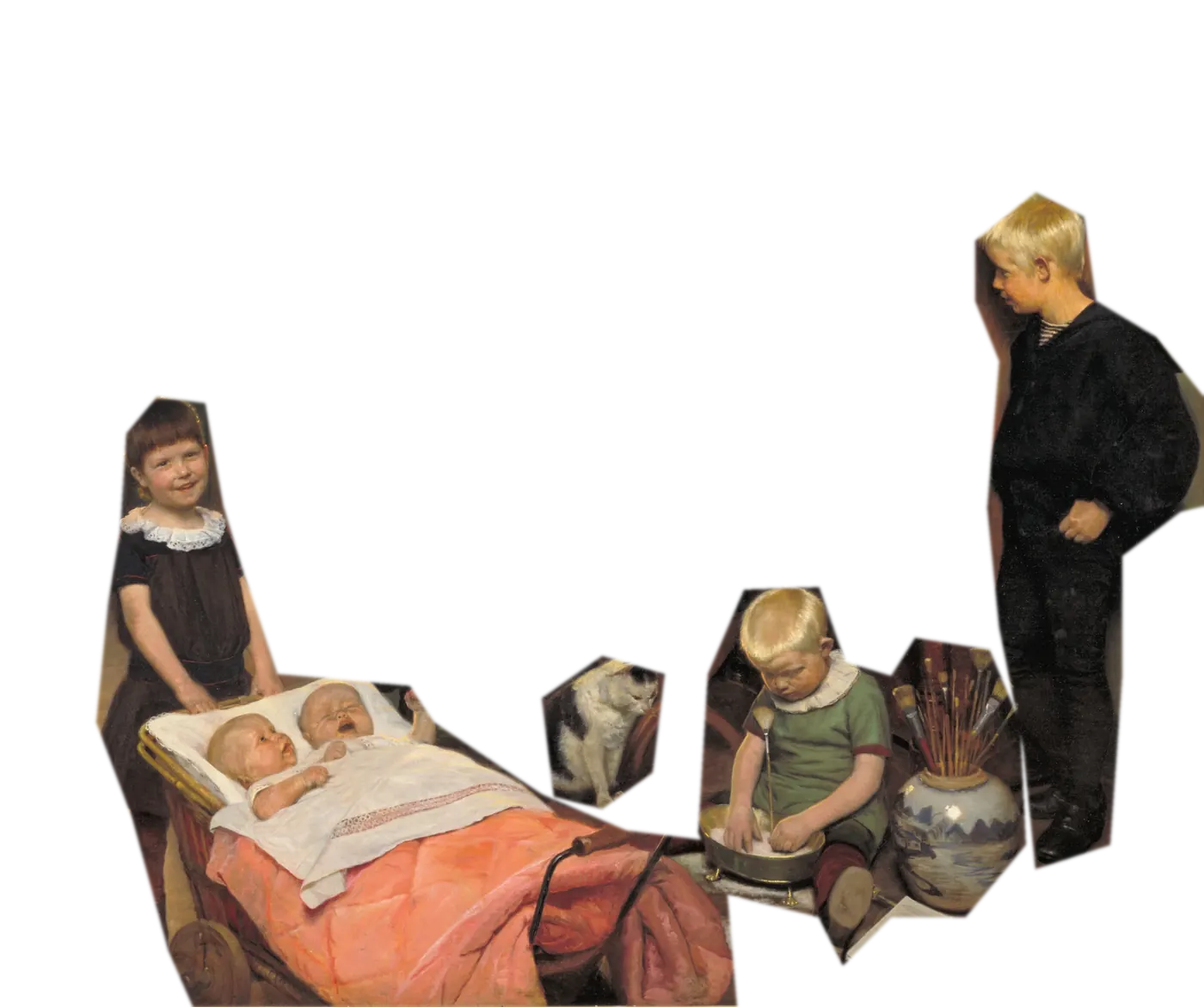
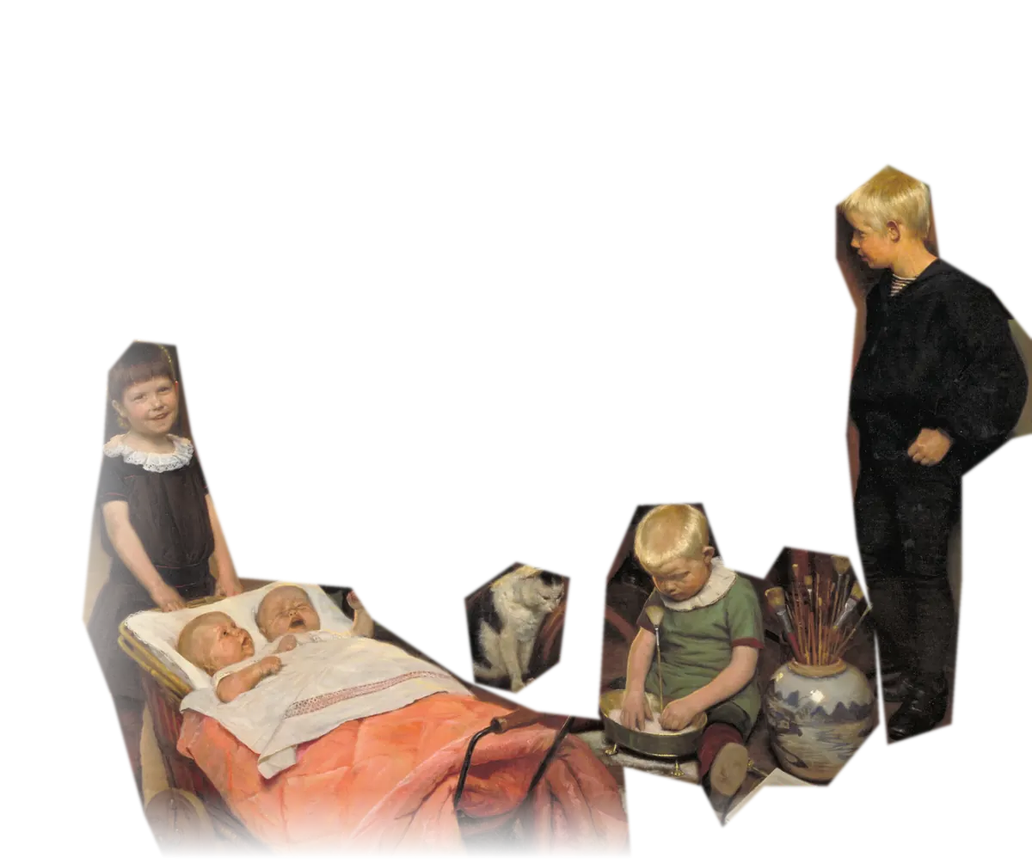
Home performance: tilt moves only on-screen layers with direct transforms and a sensor deadzone, edge fades baked into layer alpha (no CSS masks), layer images loaded up front at 1200 px
Claude-Session: https://claude.ai/code/session_016DXmRVDzV1tugYS6YgVYK3

Changed region(s): [[0.0617, 0.3705, 0.6167, 1.0], [0.6783, 0.9263, 0.74, 0.9572]]

diff --git a/src/features/home/HomePage.tsx b/src/features/home/HomePage.tsx
@@ -126,19 +126,39 @@ const DUST = Array.from({ length: 18 }, (_, i) => ({
 function useStageTilt(root: React.RefObject<HTMLDivElement | null>) {
   useEffect(() => {
     const scroller = root.current
-    const pin = scroller?.querySelector<HTMLElement>('.hm-stage-pin')
-    if (!scroller || !pin || matchMedia('(prefers-reduced-motion: reduce)').matches) return
+    if (!scroller || matchMedia('(prefers-reduced-motion: reduce)').matches) return
+    // Only the tilt boxes of panels on screen are moved, each by its own transform: no custom property on the page
+    // root (that restyled every node of the page on every frame and made the iPad drop frames).
+    const panels = [...scroller.querySelectorAll<HTMLElement>('.hm-stage-pin, .hm-chapter')]
+    const boxes = new Map<HTMLElement, { el: HTMLElement; depth: number }[]>()
+    for (const p of panels)
+      boxes.set(p, [...p.querySelectorAll<HTMLElement>('.hm-tilt')].map((el) => ({ el, depth: parseFloat(getComputedStyle(el).getPropertyValue('--depth')) || 0 })))
+    const live = new Set<HTMLElement>()
+    const io = new IntersectionObserver((es) => es.forEach((e) => (e.isIntersecting ? live.add(e.target as HTMLElement) : live.delete(e.target as HTMLElement))), { root: scroller })
+    panels.forEach((p) => io.observe(p))
     let tx = 0, ty = 0, cx = 0, cy = 0, raf = 0
+    const paint = () => {
+      for (const p of live)
+        for (const b of boxes.get(p) ?? []) b.el.style.transform = `translate3d(${(-cx * b.depth).toFixed(2)}px, ${(-cy * b.depth * 0.6).toFixed(2)}px, 0)`
+    }
     const loop = () => {
-      cx += (tx - cx) * 0.07
-      cy += (ty - cy) * 0.07
-      scroller.style.setProperty('--tx', cx.toFixed(4))
-      scroller.style.setProperty('--ty', cy.toFixed(4))
-      raf = Math.abs(tx - cx) + Math.abs(ty - cy) > 0.002 ? requestAnimationFrame(loop) : 0
+      cx += (tx - cx) * 0.08
+      cy += (ty - cy) * 0.08
+      const moving = Math.abs(tx - cx) + Math.abs(ty - cy) > 0.004
+      if (!moving) {
+        cx = tx
+        cy = ty
+      }
+      paint()
+      raf = moving ? requestAnimationFrame(loop) : 0
     }
     const aim = (x: number, y: number) => {
-      tx = Math.max(-1, Math.min(1, x))
-      ty = Math.max(-1, Math.min(1, y))
+      x = Math.max(-1, Math.min(1, x))
+      y = Math.max(-1, Math.min(1, y))
+      // ignore sensor noise: a device resting on a table still reports tiny changes many times a second
+      if (Math.abs(x - tx) + Math.abs(y - ty) < 0.03) return
+      tx = x
+      ty = y
       if (!raf) raf = requestAnimationFrame(loop)
     }
     const fine = matchMedia('(hover: hover) and (pointer: fine)').matches
@@ -151,7 +171,7 @@ function useStageTilt(root: React.RefObject<HTMLDivElement | null>) {
     const onTilt = (e: DeviceOrientationEvent) => {
       if (e.gamma == null || e.beta == null) return
       if (base == null) base = e.beta
-      aim(e.gamma / 22, (e.beta - base) / 22)
+      aim(Math.round(e.gamma) / 22, Math.round(e.beta - base) / 22)
     }
     type Perm = { requestPermission?: () => Promise<'granted' | 'denied'> }
     const DOE = (window as unknown as { DeviceOrientationEvent?: Perm }).DeviceOrientationEvent
@@ -166,6 +186,7 @@ function useStageTilt(root: React.RefObject<HTMLDivElement | null>) {
     } else if (DOE?.requestPermission) scroller.addEventListener('touchend', askOnce, { once: true })
     else startTilt()
     return () => {
+      io.disconnect()
       cancelAnimationFrame(raf)
       scroller.removeEventListener('pointermove', onPointer)
       scroller.removeEventListener('pointerleave', onLeave)
@@ -190,7 +211,7 @@ function Layer({ name, src }: { name: 'bg' | 'mid' | 'fg'; src?: string }) {
         <div className="hm-tilt">
           <picture>
             <source media="(max-width: 760px)" srcSet={url('-sm')} />
-            <img src={url('')} alt="" decoding="async" loading={src ? 'lazy' : 'eager'} />
+            <img src={url('')} alt="" decoding="async" />
           </picture>
         </div>
       </div>

diff --git a/src/features/home/home.css b/src/features/home/home.css
@@ -34,14 +34,14 @@
 .hm-stage-pin .hm-layer-fg { z-index: 4; transform-origin: 62% 100%; }
 .hm-layer .hm-push, .hm-layer .hm-tilt, .hm-layer picture { position: absolute; inset: 0; }
 .hm-layer img { width: 100%; height: 100%; object-fit: cover; object-position: 60% 40%; }
-.hm-tilt { --depth: 0px; transform: translate3d(calc(var(--tx) * var(--depth) * -1), calc(var(--ty) * var(--depth) * -0.6), 0); }
-.hm-layer-bg .hm-tilt { --depth: 7px; }
-.hm-layer-mid .hm-tilt { --depth: 16px; }
-.hm-layer-fg .hm-tilt { --depth: 30px; }
-.hm-chapter-media .hm-layer-bg .hm-tilt { --depth: 5px; }
-.hm-chapter-media .hm-layer-mid .hm-tilt { --depth: 12px; }
-.hm-chapter-media .hm-layer-fg .hm-tilt { --depth: 22px; }
-.hm-title-block .hm-tilt { --depth: 22px; }
+.hm-tilt { --depth: 0; }
+.hm-layer-bg .hm-tilt { --depth: 7; }
+.hm-layer-mid .hm-tilt { --depth: 16; }
+.hm-layer-fg .hm-tilt { --depth: 30; }
+.hm-chapter-media .hm-layer-bg .hm-tilt { --depth: 5; }
+.hm-chapter-media .hm-layer-mid .hm-tilt { --depth: 12; }
+.hm-chapter-media .hm-layer-fg .hm-tilt { --depth: 22; }
+.hm-title-block .hm-tilt { --depth: 22; }
 /* entrance: the room rises out of black, the listeners in front settle last */
 .hm-stage-pin .hm-layer-bg img { animation: hm-layer-in 2400ms cubic-bezier(0.16, 1, 0.3, 1) both; }
 .hm-stage-pin .hm-layer-mid img { animation: hm-layer-in 2400ms 150ms cubic-bezier(0.16, 1, 0.3, 1) both; }
@@ -138,14 +138,14 @@
 .hm-chapter.is-flip { grid-template-columns: 1fr 1.08fr; }
 .hm-chapter.is-flip .hm-chapter-media { order: 2; }
 .hm-chapter-media { position: relative; height: 100%; overflow: hidden; }
-.hm-chapter-media .hm-layer { transform: scale(1.08); }
+.hm-chapter-media .hm-layer { transform: scale(1.08); will-change: transform; }
+.hm-tilt { will-change: transform; }
 .hm-chapter-media .hm-layer-bg { z-index: 1; } .hm-chapter-media .hm-layer-mid { z-index: 4; } .hm-chapter-media .hm-layer-fg { z-index: 5; }
 /* stacking inside a panel (the media box has no stacking context of its own, so its layers interleave with the text):
    bg 1 · edge fade 2 · heading 3 · figures 4 · foreground 5 · body text 6 */
 .hm-chapter-media::after { z-index: 2; }
 .hm-chapter-media .hm-layer-mid, .hm-chapter-media .hm-layer-fg {
-  -webkit-mask-image: linear-gradient(var(--fade-dir, 90deg), #000 var(--fade-from, 72%), transparent 98%);
-  mask-image: linear-gradient(var(--fade-dir, 90deg), #000 var(--fade-from, 72%), transparent 98%);
+  /* edge fades are baked into the images' alpha (split2.py): a CSS mask on moving layers stalls Safari */
 }
 .hm-chapter.is-flip { --fade-dir: 270deg; }
 .hm-chapter-mark {
@@ -157,8 +157,8 @@
 .hm-chapter:nth-child(2) { --mark-top: 30%; }
 .hm-chapter:nth-child(3) { --mark-top: 20%; --mark-left: 41%; }
 .hm-chapter:nth-child(4) { --mark-top: 24%; }
-.hm-chapter-mark .hm-tilt { --depth: 8px; }
-.hm-chapter-mark .hm-chapter-title { font-size: clamp(44px, 6.6vw, 108px); line-height: 1.04; text-shadow: 0 1px 2px rgb(0 0 0 / 0.55), 0 4px 22px rgb(0 0 0 / 0.65), 0 10px 60px rgb(0 0 0 / 0.5); }
+.hm-chapter-mark .hm-tilt { --depth: 8; }
+.hm-chapter-mark .hm-chapter-title { font-size: clamp(44px, 6.6vw, 108px); line-height: 1.04; text-shadow: 0 1px 2px rgb(0 0 0 / 0.6), 0 4px 24px rgb(0 0 0 / 0.6); }
 .hm-chapter-text { position: relative; z-index: 6; align-self: end; padding-bottom: clamp(48px, 11vh, 120px) !important; }
 .hm-chapter-media .hm-layer img { object-position: 50% 42%; }
 .hm-chapter-media::after {

diff --git a/CLAUDE.md b/CLAUDE.md
@@ -40,7 +40,7 @@ npx tsc -b && npm run lint && npm run check:links && npm run build
   - `quotes/index.ts`: mảng `ROWS` `[tiếng Việt, nguyên văn, tác giả, vai trò, nguồn]` (347 câu). Ảnh chân dung tự lấy từ Wikipedia theo tên tác giả; tên viết kiểu Việt cần thêm vào `WIKI_TITLE` trong `QuoteBanner.tsx`.
 - **App chỉ có giao diện tối** (11/2026): `applyDarkTheme()` (`settingsService.ts`, gọi ở `main.tsx`) luôn đặt `data-theme="dark"` + `color-scheme: dark`, bỏ qua trường `theme` cũ trong cài đặt; đã bỏ nút đổi sáng/tối ở ngăn kéo, mục Giao diện trong Cài đặt, lệnh trong ⌘K và lệnh "giao diện" của trợ lý; `theme-color`/manifest `#0b0a08`. Token giao diện sáng trong `index.css` còn nhưng không dùng tới — **đừng thêm lại công tắc theme**. Nền Giấy/Sepia/Đêm của trình đọc sách vẫn giữ (màu trang đọc, không phải theme app).
 - **Nhận diện thương hiệu đen – vàng** (11/2026): vàng là màu nhấn **duy nhất** — `--color-accent` = vàng ở cả hai giao diện (đêm: nền mun ấm `#0b0a08`, vàng champagne; ngày: giấy ngà, vàng đồng), trạng thái "đã xác nhận" cũng vàng; không thêm màu xanh/tím cho nút, link, trạng thái. Màu riêng của mục/sách/nhánh đi qua `src/lib/tint.ts` (`hueTint`, `tintColor`, `brandHue` kéo mọi hue về quanh vàng ±45°, độ bão hoà thấp) — đừng viết lại `oklch(… 0.13 hue)` ở component. Lớp dùng chung ở `src/brand.css` (import trong `index.css`): `.btn-gold` (nút chính duy nhất trên màn, ánh lướt khi rê chuột), `.btn-line` (viền vàng mảnh, nút phụ), `.gold-rule`, `.side-rail` (thanh bên cùng nền trang + đường viền vàng mờ), `.hero-stats`, `.hero-search` (ô tìm kính tối viền vàng ở hero Lý thuyết), `.brand-eyebrow`, focus ring vàng **chỉ khi dùng bàn phím** (`html[data-kbd]` bật khi nhấn Tab, tắt ở mọi cú chạm/chuột — đặt trong `spotlight.ts`; luật nằm trong `@layer base` để `outline-none` của Tailwind vẫn thắng; ô nhập chữ không có viền riêng — lỗi cũ: chạm vào ô tìm trên iPad hiện khung chữ nhật vàng), **không có thanh cuộn ở đâu cả** (`scrollbar-width: none` + `::-webkit-scrollbar { display: none }` cho mọi phần tử, vẫn cuộn bình thường); **ánh vàng theo con trỏ** trên mọi `.theory-card` / `.spot` (viền + quầng sáng, `src/lib/spotlight.ts` — một listener uỷ quyền đặt `--mx/--my`, chỉ máy có chuột).
-- **Trang chủ** `/home` (`src/features/home/HomePage.tsx` + `home.css`; app mới mở vào thẳng `#/home` — dòng trước `createHashRouter` trong `App.tsx`; mục "Trang chủ" đầu ngăn kéo menu, chỉ máy tính): phòng tranh tối đen – vàng giống nhau ở cả hai giao diện. 1) **sân khấu 2,5D** (`.hm-stage`, 11/2026): tranh *Song tấu* (Krøyer 1887) **tách 3 lớp** ở `public/images/home/duet3d/{bg,mid,fg}{,-sm}.webp` — `mid` = hai ca sĩ + người đàn + nến/đàn, `fg` = người nghe tiền cảnh trái (váy đỏ) và phải, `bg` = phòng với chỗ người bị che được vá bằng inpaint (OpenCV Telea, làm mờ + hạt) — sinh bằng `scratchpad/layers/split.py` (đa giác vẽ tay theo lưới 1000 px, viền mềm 3 px; sửa đường cắt thì sửa đa giác rồi chạy lại). Mỗi lớp = `.hm-layer` (chuyển động theo cuộn) > `.hm-tilt` (lệch theo con trỏ trên máy tính / con quay trên điện thoại–iPad, độ sâu bg 7 · mid 16 · title 22 · fg 30 px; `useStageTilt`: input chỉ đặt đích, một vòng rAF làm mượt rồi dừng, ghi `--tx/--ty` trên `.hm-stage-pin`; iOS xin quyền cảm biến ở cú chạm đầu). Section cao `3.4 × 100svh`, khung `.hm-stage-pin` dính; timeline `--stage` (range `contain`): 0 – 30 % tiêu đề + dòng giới thiệu bay lên mờ đi, 10 – 58 % người nghe tiền cảnh lướt qua máy quay (phóng 1.75, chìm xuống, mờ), ca sĩ tiến gần (1.22), phòng (1.16); 28 – 50 % phòng tối dần (`.hm-stage-dark`); 48 – 90 % câu "Tinh thần" hiện trên phòng tối và sáng dần từng chữ, cuối cùng chữ ký "— Lamar". Màn dọc: khối tiêu đề (`.hm-title-block`) lên vùng tường tối, nằm **giữa** lớp ca sĩ và lớp người nghe (z 3) nên người nghe lướt qua chữ khi cuộn; màn ngang: tiêu đề nổi trên cùng bên trái. Sau sân khấu là 4 con số (`.hm-manifesto` chỉ còn `.hm-figures`) trên nền đen rồi tới các chương. Không có scroll timeline: câu Tinh thần thành khối thường dưới hero. Đo Chromium: cuộn cả trang trung vị 16,7 ms/khung; 2) đoạn "Tinh thần" — câu của Lamar "Học để hiểu, hiểu để phân tích, phân tích để vận dụng, vận dụng để sáng tạo và không ngừng khám phá âm nhạc." + chữ ký "— Lamar" (`.hm-manifesto-sign`) — sáng dần từng chữ theo cuộn + 4 con số (đếm thật từ `ARTICLES`, `CATEGORIES`, `libraryStats`, `SHELF_BOOKS`); 3) bốn chương **dính chồng** (`.hm-chapters` > `.hm-chapter` sticky, chương sau trượt đè chương trước, chương dưới tối dần) — **tranh mỗi chương cũng tách lớp** (`public/images/home/layers/<file>-{bg,mid,fg}{,-sm}.webp`, 1400 / 800 px; sinh bằng `scratchpad/layers/split2.py`, bảng đa giác `P` theo lưới 1000 px: vĩ cầm = tường · vĩ cầm+vĩ+lông · giấy nhạc+sáo+dây treo; de Hooch = phòng · hai nhóm người chơi (gồm con chó) · rèm đỏ; Hansen = tường · hai chị em (không có fg, `ART.reading.fg = false`); Haslund *A Concert* (chương Luyện tai, thay tranh Ancher độ phân giải thấp) = phòng+đàn · cậu bé vĩ cầm + hai bé gái + bé đánh đàn · bé gái đẩy xe nôi, cậu bé bên phải, bé gõ trống, con mèo). `Layer` nhận `src` = `ART.*.file`, mỗi lớp 3 hộp lồng: `.hm-layer` (chương **đến**: view() entry — tường đi chậm nhất từ `translateY(-38%)`, lớp giữa `-16%`, lớp trước đi lên từ `+14%` và hiện dần, tất cả khớp lại ở `scale(1.08)`) > `.hm-push` (chương **bị phủ**: timeline `--c(i+1)` entry — máy quay đẩy vào, lớp trước phóng 1.32 trôi lên mờ còn 15 %, lớp giữa 1.12, tường 1.04) > `.hm-tilt` (nghiêng: 5 / 12 / 22 px). **Tiêu đề chương nằm trong tranh** (`.hm-chapter-mark`: số + eyebrow + tiêu đề lớn, tách khỏi `.hm-chapter-text` chỉ còn đoạn mô tả + nút + chú thích): `.hm-chapter-media` không tạo stacking context nên các lớp tranh và chữ xen nhau trong panel — màn ngang: bg 1 · vệt tối mép (`::after`) 2 · **tiêu đề 3** · nhân vật 4 · tiền cảnh 5 · mô tả 6, tiêu đề tràn từ cột chữ sang tranh nên nhân vật che một phần chữ (vị trí từng chương `--mark-top/--mark-left` theo `:nth-child`, canh để chỉ che vài nét: vĩ cầm 38 %, sách 41 %, chương lật `right: 31%`); màn dọc (≤ 860 px): tiêu đề ở vùng tường tối phía trên tranh, z 5 — **trước** nhân vật, chỉ lớp tiền cảnh (z 6: rèm đỏ, cậu bé bên phải) lướt qua, vì nhân vật chiếm giữa khung sẽ che hết chữ. Lớp giữa/trước có `mask-image` tan dần về mép (`--fade-dir`, `--fade-from` 72 % ngang / 92 % dọc — tan sớm quá thì lớp bán trong suốt làm chữ phía sau mờ đục). Tiêu đề đến chậm hơn nhân vật (`hm-mark-in`, entry 20 – 100 %, từ `translateY(28vh)`) nên nhân vật lướt ngang qua chữ, bay lên mờ đi khi chương sau phủ (`hm-mark-out`), lệch nghiêng 8 px (giữa nền và nhân vật); bóng chữ ba tầng cho dễ đọc trên tranh sáng. Chữ chương: hiện lên khi đến (`hm-text-in`) và bay lên mờ đi khi chương sau phủ (`hm-text-out`, hai timeline `view(), --c(i+1)`). `useStageTilt` nay ghi `--tx/--ty` lên cả `.hm` nên mọi tranh nhiều lớp cùng lệch. Đo Chromium headless (không GPU): điện thoại trung vị 16,7 ms, p95 16,8; màn rộng trung vị 16,7, p95 ~33 ms (nhiều lớp lớn cùng lúc): Lý thuyết, Âm nhạc học + Bản đồ (số nơi/sự kiện đếm từ `PLACES`), Tủ sách, Luyện tai; 4) **phòng tranh ngang** tủ sách (dòng chữ viền khổng lồ trôi ngang đã bỏ — Lamar thấy khó hiểu): tiêu đề hiện rõ ngay (không mờ dần) + dòng gợi ý "Cuộn xuống để lướt qua tủ sách →" (chỉ khi có scroll timeline); `.hm-hshelf` cao `100svh + n × 110px`, khung trong `.hm-hshelf-pin` dính, dải bìa (`Cover`, nghiêng 3D tĩnh, bấm mở bằng `openBook`) dịch ngang `translateX(-100% + 100cqw)` theo view-timeline `--shelf` (range `contain`), thanh tiến độ vàng; không có scroll timeline thì thành hàng cuộn ngang có snap; 5) chân trang ghi nguồn tranh. Nút logo `.rail-mark` tự ẩn khi vuốt xuống, hiện lại khi vuốt lên (`useMarkAutoHide` → `html[data-hm-down]`). Hero thêm bụi vàng (18 chấm CSS bay lên, vị trí cố định), quầng sáng vàng theo con trỏ trên máy có chuột (`useHeroLight`, dịch bằng transform), hạt phim tĩnh (SVG noise ở `.hm-hero-veil::after`). Bóng đổ mép trên các chương cắt bằng `clip-path: inset(-140px 0 0 0)` tĩnh để không lan xuống dưới. Đo trong Chromium headless: cuộn hết trang 60 fps, không khung > 50 ms. Hiệu ứng cuộn là **CSS scroll-driven animation** (`animation-timeline: view()` / view-timeline đặt tên `--hero`, `--mf`, `--c1..4` + `timeline-scope` trên `.hm-chapters` để chương trước tối dần khi chương sau vào), trình duyệt chạy trên compositor theo đúng ngón tay — **không có JS theo từng khung hình** (bản đầu dùng listener ghi biến CSS + `clip-path`/`border-radius` động trên ảnh lớn: trên iPad bị giật và chớp vì JS luôn trễ sau cú vuốt quán tính và mỗi khung phải vẽ lại ảnh); chỉ animate transform/opacity, không `will-change`, không `clip-path`; chiều cao dùng `100svh` (không đổi khi cuộn); trên điện thoại `main` của `/home` không có lề dưới (`fullBleed` trong `AppShell`) nên thanh dưới tự ẩn/hiện không làm khung co giãn lúc cuộn; `.hm` có `data-no-rubber`. Trình duyệt chưa có scroll timeline: khối `.hm-reveal` mờ dần lên một lần qua IntersectionObserver (`useRevealFallback`). Tắt hết khi reduced-motion. **Tranh** ở `public/images/home/{duet,trompe,music-party,reading}{,-sm}.webp` (chương 04 chỉ có bản tách lớp `layers/concert-*`) (1800 px / 900 px cho điện thoại): phạm vi công cộng từ kho mở Statens Museum for Kunst (open.smk.dk; KMS1304 Krøyer, KMS1908 Gijsbrechts, KMSsp613 de Hooch, KMS3004 C. Hansen, KMS1306 Otto Haslund *A Concert: The Artist's Children and their Playmates* 1887 — tải IIIF 2400 px), tải bằng IIIF `iip.smk.dk`; không precache (`globIgnores`), cache khi xem (`home-images`). Văn giới thiệu chỉ nêu điều có trong app, con số lấy động.
+- **Trang chủ** `/home` (`src/features/home/HomePage.tsx` + `home.css`; app mới mở vào thẳng `#/home` — dòng trước `createHashRouter` trong `App.tsx`; mục "Trang chủ" đầu ngăn kéo menu, chỉ máy tính): phòng tranh tối đen – vàng giống nhau ở cả hai giao diện. 1) **sân khấu 2,5D** (`.hm-stage`, 11/2026): tranh *Song tấu* (Krøyer 1887) **tách 3 lớp** ở `public/images/home/duet3d/{bg,mid,fg}{,-sm}.webp` — `mid` = hai ca sĩ + người đàn + nến/đàn, `fg` = người nghe tiền cảnh trái (váy đỏ) và phải, `bg` = phòng với chỗ người bị che được vá bằng inpaint (OpenCV Telea, làm mờ + hạt) — sinh bằng `scratchpad/layers/split.py` (đa giác vẽ tay theo lưới 1000 px, viền mềm 3 px; sửa đường cắt thì sửa đa giác rồi chạy lại). Mỗi lớp = `.hm-layer` (chuyển động theo cuộn) > `.hm-tilt` (lệch theo con trỏ trên máy tính / con quay trên điện thoại–iPad, độ sâu bg 7 · mid 16 · title 22 · fg 30 px; `useStageTilt`: input chỉ đặt đích, một vòng rAF làm mượt rồi dừng, ghi `--tx/--ty` trên `.hm-stage-pin`; iOS xin quyền cảm biến ở cú chạm đầu). Section cao `3.4 × 100svh`, khung `.hm-stage-pin` dính; timeline `--stage` (range `contain`): 0 – 30 % tiêu đề + dòng giới thiệu bay lên mờ đi, 10 – 58 % người nghe tiền cảnh lướt qua máy quay (phóng 1.75, chìm xuống, mờ), ca sĩ tiến gần (1.22), phòng (1.16); 28 – 50 % phòng tối dần (`.hm-stage-dark`); 48 – 90 % câu "Tinh thần" hiện trên phòng tối và sáng dần từng chữ, cuối cùng chữ ký "— Lamar". Màn dọc: khối tiêu đề (`.hm-title-block`) lên vùng tường tối, nằm **giữa** lớp ca sĩ và lớp người nghe (z 3) nên người nghe lướt qua chữ khi cuộn; màn ngang: tiêu đề nổi trên cùng bên trái. Sau sân khấu là 4 con số (`.hm-manifesto` chỉ còn `.hm-figures`) trên nền đen rồi tới các chương. Không có scroll timeline: câu Tinh thần thành khối thường dưới hero. Đo Chromium: cuộn cả trang trung vị 16,7 ms/khung; 2) đoạn "Tinh thần" — câu của Lamar "Học để hiểu, hiểu để phân tích, phân tích để vận dụng, vận dụng để sáng tạo và không ngừng khám phá âm nhạc." + chữ ký "— Lamar" (`.hm-manifesto-sign`) — sáng dần từng chữ theo cuộn + 4 con số (đếm thật từ `ARTICLES`, `CATEGORIES`, `libraryStats`, `SHELF_BOOKS`); 3) bốn chương **dính chồng** (`.hm-chapters` > `.hm-chapter` sticky, chương sau trượt đè chương trước, chương dưới tối dần) — **tranh mỗi chương cũng tách lớp** (`public/images/home/layers/<file>-{bg,mid,fg}{,-sm}.webp`, 1200 / 800 px; sinh bằng `scratchpad/layers/split2.py`, bảng đa giác `P` theo lưới 1000 px: vĩ cầm = tường · vĩ cầm+vĩ+lông · giấy nhạc+sáo+dây treo; de Hooch = phòng · hai nhóm người chơi (gồm con chó) · rèm đỏ; Hansen = tường · hai chị em (không có fg, `ART.reading.fg = false`); Haslund *A Concert* (chương Luyện tai, thay tranh Ancher độ phân giải thấp) = phòng+đàn · cậu bé vĩ cầm + hai bé gái + bé đánh đàn · bé gái đẩy xe nôi, cậu bé bên phải, bé gõ trống, con mèo). `Layer` nhận `src` = `ART.*.file`, mỗi lớp 3 hộp lồng: `.hm-layer` (chương **đến**: view() entry — tường đi chậm nhất từ `translateY(-38%)`, lớp giữa `-16%`, lớp trước đi lên từ `+14%` và hiện dần, tất cả khớp lại ở `scale(1.08)`) > `.hm-push` (chương **bị phủ**: timeline `--c(i+1)` entry — máy quay đẩy vào, lớp trước phóng 1.32 trôi lên mờ còn 15 %, lớp giữa 1.12, tường 1.04) > `.hm-tilt` (nghiêng: 5 / 12 / 22 px). **Tiêu đề chương nằm trong tranh** (`.hm-chapter-mark`: số + eyebrow + tiêu đề lớn, tách khỏi `.hm-chapter-text` chỉ còn đoạn mô tả + nút + chú thích): `.hm-chapter-media` không tạo stacking context nên các lớp tranh và chữ xen nhau trong panel — màn ngang: bg 1 · vệt tối mép (`::after`) 2 · **tiêu đề 3** · nhân vật 4 · tiền cảnh 5 · mô tả 6, tiêu đề tràn từ cột chữ sang tranh nên nhân vật che một phần chữ (vị trí từng chương `--mark-top/--mark-left` theo `:nth-child`, canh để chỉ che vài nét: vĩ cầm 38 %, sách 41 %, chương lật `right: 31%`); màn dọc (≤ 860 px): tiêu đề ở vùng tường tối phía trên tranh, z 5 — **trước** nhân vật, chỉ lớp tiền cảnh (z 6: rèm đỏ, cậu bé bên phải) lướt qua, vì nhân vật chiếm giữa khung sẽ che hết chữ. Mép tan của lớp giữa/trước **nướng sẵn vào kênh alpha** trong `split2.py` (16 % về phía cột chữ — phải cho chương 1, 3, trái cho 2, 4 — và 8 % đáy); **không dùng `mask-image`** trên lớp đang chuyển động (Safari iPad giật và hiện khung đen). **Hiệu năng (11/2026, Lamar báo iPad giật):** nghiêng máy không còn ghi biến `--tx/--ty` lên gốc trang (làm tính lại style cả trang mỗi khung) — `useStageTilt` đọc `--depth` (số px không đơn vị) của từng `.hm-tilt` một lần, chỉ ghi `style.transform` cho các tilt box của panel đang hiện (IntersectionObserver), lọc nhiễu cảm biến (làm tròn độ, bỏ thay đổi < 0,03) và dừng vòng rAF khi đứng yên; ảnh các lớp tải ngay (không `loading=lazy`, tránh lớp chưa có ảnh lúc chuyển cảnh), bản màn rộng 1200 px; `.hm-layer`/`.hm-tilt` của chương có `will-change: transform` để không phải tạo lớp GPU giữa chuyển cảnh. Tiêu đề đến chậm hơn nhân vật (`hm-mark-in`, entry 20 – 100 %, từ `translateY(28vh)`) nên nhân vật lướt ngang qua chữ, bay lên mờ đi khi chương sau phủ (`hm-mark-out`), lệch nghiêng 8 px (giữa nền và nhân vật); bóng chữ ba tầng cho dễ đọc trên tranh sáng. Chữ chương: hiện lên khi đến (`hm-text-in`) và bay lên mờ đi khi chương sau phủ (`hm-text-out`, hai timeline `view(), --c(i+1)`). `useStageTilt` nay ghi `--tx/--ty` lên cả `.hm` nên mọi tranh nhiều lớp cùng lệch. Đo Chromium headless (không GPU): điện thoại trung vị 16,7 ms, p95 16,8; màn rộng trung vị 16,7, p95 ~33 ms (nhiều lớp lớn cùng lúc): Lý thuyết, Âm nhạc học + Bản đồ (số nơi/sự kiện đếm từ `PLACES`), Tủ sách, Luyện tai; 4) **phòng tranh ngang** tủ sách (dòng chữ viền khổng lồ trôi ngang đã bỏ — Lamar thấy khó hiểu): tiêu đề hiện rõ ngay (không mờ dần) + dòng gợi ý "Cuộn xuống để lướt qua tủ sách →" (chỉ khi có scroll timeline); `.hm-hshelf` cao `100svh + n × 110px`, khung trong `.hm-hshelf-pin` dính, dải bìa (`Cover`, nghiêng 3D tĩnh, bấm mở bằng `openBook`) dịch ngang `translateX(-100% + 100cqw)` theo view-timeline `--shelf` (range `contain`), thanh tiến độ vàng; không có scroll timeline thì thành hàng cuộn ngang có snap; 5) chân trang ghi nguồn tranh. Nút logo `.rail-mark` tự ẩn khi vuốt xuống, hiện lại khi vuốt lên (`useMarkAutoHide` → `html[data-hm-down]`). Hero thêm bụi vàng (18 chấm CSS bay lên, vị trí cố định), quầng sáng vàng theo con trỏ trên máy có chuột (`useHeroLight`, dịch bằng transform), hạt phim tĩnh (SVG noise ở `.hm-hero-veil::after`). Bóng đổ mép trên các chương cắt bằng `clip-path: inset(-140px 0 0 0)` tĩnh để không lan xuống dưới. Đo trong Chromium headless: cuộn hết trang 60 fps, không khung > 50 ms. Hiệu ứng cuộn là **CSS scroll-driven animation** (`animation-timeline: view()` / view-timeline đặt tên `--hero`, `--mf`, `--c1..4` + `timeline-scope` trên `.hm-chapters` để chương trước tối dần khi chương sau vào), trình duyệt chạy trên compositor theo đúng ngón tay — **không có JS theo từng khung hình** (bản đầu dùng listener ghi biến CSS + `clip-path`/`border-radius` động trên ảnh lớn: trên iPad bị giật và chớp vì JS luôn trễ sau cú vuốt quán tính và mỗi khung phải vẽ lại ảnh); chỉ animate transform/opacity, không `will-change`, không `clip-path`; chiều cao dùng `100svh` (không đổi khi cuộn); trên điện thoại `main` của `/home` không có lề dưới (`fullBleed` trong `AppShell`) nên thanh dưới tự ẩn/hiện không làm khung co giãn lúc cuộn; `.hm` có `data-no-rubber`. Trình duyệt chưa có scroll timeline: khối `.hm-reveal` mờ dần lên một lần qua IntersectionObserver (`useRevealFallback`). Tắt hết khi reduced-motion. **Tranh** ở `public/images/home/{duet,trompe,music-party,reading}{,-sm}.webp` (chương 04 chỉ có bản tách lớp `layers/concert-*`) (1800 px / 900 px cho điện thoại): phạm vi công cộng từ kho mở Statens Museum for Kunst (open.smk.dk; KMS1304 Krøyer, KMS1908 Gijsbrechts, KMSsp613 de Hooch, KMS3004 C. Hansen, KMS1306 Otto Haslund *A Concert: The Artist's Children and their Playmates* 1887 — tải IIIF 2400 px), tải bằng IIIF `iip.smk.dk`; không precache (`globIgnores`), cache khi xem (`home-images`). Văn giới thiệu chỉ nêu điều có trong app, con số lấy động.
 - **Điều hướng** (11/2026): mục Học viên **không còn trên menu/thanh dưới** — mở từ nút "Học viên" (viền vàng, `data-tour="/students"`) trên thanh của Thời khoá biểu (`CalendarPage`); bước 2 của tour trỏ vào nút đó. Thanh dưới điện thoại: Trang chủ (ngoài cùng trái) · Lịch · Âm nhạc học · + · Lý thuyết · Tủ sách · Cài đặt; ngăn kéo có thêm Sổ nghiên cứu. Kính của ngăn kéo và thanh dưới trong hơn: nền 38 % / 36 % + blur 30 – 34 px saturate 1.7, giao diện tối thêm `brightness(0.8)` cho nhãn luôn đọc được.
 - **Thanh bên trên máy tính là ngăn kéo ẩn** (11/2026): mặc định ẩn để trang rộng hết màn hình; nút **logo Lamar + hai vạch** cố định góc trên trái (`.rail-mark` trong `AppShell`, ẩn ở trình đọc `/curriculum/:id…` vì trình đọc có thanh riêng) mở `Sidebar` dạng **tấm kính mờ nổi** (`.rail-drawer`: cách mép 10 px, bo 24 px, nền 66 % + `backdrop-filter: blur(28px) saturate(1.5)`, viền vàng mảnh; mở: lướt + hiện dần 620 ms expo-out rồi nút, các mục (`--k`) và hộp tìm hiện so le từ mờ sang nét; đóng: 300 ms một lượt; `visibility` ẩn khi đóng; trang phía sau chỉ tối đi theo gradient `.rail-scrim`, không blur cả trang vì giật trên máy tính bảng; nút viền và hộp tìm trong ngăn dùng nền trong suốt; vạch mục đang chọn đo lại mỗi lần mở; **chuyển trang từ ngăn đang mở thì bỏ qua View Transition** (`viewTransitions.ts` kiểm `.rail-drawer.is-open`) — ảnh chụp của chuyển cảnh từng giữ lại tấm kính trên màn hình một nhịp rồi mới biến mất; ngăn không còn lớp `vt-sidebar`); đóng khi bấm nền, Esc, bấm logo trong ngăn, hoặc đổi trang. CSS ở `layout/motion-nav.css`; thanh tiêu đề các trang (`.glass.sticky.top-0`, thanh lịch `.glass.relative.border-b`) và ô tìm bản đồ (`.mm-top`) được đẩy lề trái 76 px trên màn ≥ 1024 px để chừa chỗ logo. Điện thoại dùng thanh điều hướng dưới, **trừ trang chủ `/home`**: ở đó thanh dưới và nút ✦ trợ lý ẩn hẳn (`fullBleed` trong `AppShell`, `html[data-route="home"]` ẩn `.as-fab`), nút logo `.rail-mark` hiện cả trên điện thoại (né tai thỏ bằng `env(safe-area-inset-top)`) và mở cùng ngăn kính (`Sidebar` prop `everywhere`; trên điện thoại rộng `min(300px, 100vw − 56px)`). Thanh dưới (`BottomNav`, lớp `.nav-glass`) dùng cùng chất kính với ngăn kéo: nền 62 % + blur 28 px + viền vàng mảnh. Nút ✦ trên máy tính nay ở `left: 24px` (cột trái đã thành ngăn kéo).
 - **Hiệu ứng động:** router là `createHashRouter` (`App.tsx`) + `layout/viewTransitions.ts` (View Transitions có hướng, morph tiêu đề thẻ bài, bỏ qua khi hiệu ứng mở/đóng sách đang chạy); hook cử chỉ/cuộn ở `src/hooks/` (`useEdgeSwipeBack`, `useScrollCollapse` — `data-collapse`, `useReveal` — `data-reveal`, `useParallax`, `usePullAction`, `useRubberBand`); tiện ích chung `components/motion.ts` (con trỏ cuối, rung, spring, `useFlip`), `CountUp`. CSS hiệu ứng nằm ở file riêng cạnh component (`motion-*.css`, `theory-motion.css`, `lock-motion.css`), không dồn vào `index.css`. Âm thanh ví dụ nhạc: `theory/audio.ts` — **tiếng piano thật** từ mẫu Salamander Grand Piano V3 (Alexander Holm, CC BY 3.0, archive.org; ghi nguồn ở chân trang Lý thuyết và trang Solfège, `public/media/piano/README.txt`): Đô, Rê♯, Fa♯, La từ C2 tới C7 (`<midi>-<6|13>.{ogg,m4a}` — Opus nếu trình duyệt chơi được, không thì AAC), 2 lớp lực đánh v6/v13 trộn theo `vel`, nốt giữa kéo cao độ từ mẫu gần nhất (≤ 2 nửa cung), bảng `RETUNE` (cent đo từ bản thu) đưa mọi mẫu về bình quân La 4 = 440 Hz; tải nền ở cú chạm đầu tiên (`loadPiano`), cache CacheFirst `piano-samples` trong `vite.config.ts`; mẫu chưa tải thì phát bằng tiếng tổng hợp cũ (`synth`). **Tiếng máy đánh nhịp** (máy đánh nhịp ở Bảng tính + tiếng tích của sơ đồ nhịp): hai tiếng tích thật cắt từ bản thu máy đánh nhịp cơ học *Sound Classic Metronome 96* (Olga Ernst, Wikimedia Commons, CC BY-SA 4.0 — file gốc tải qua bản lưu Wayback vì upload.wikimedia.org trả 429; bản cắt cũng CC BY-SA, ghi ở `public/media/metronome/README.txt` và mục nguồn chân trang Lý thuyết): `accent` (tích sáng, phách mạnh) / `beat` (tích trầm, nhỏ hơn) `.{ogg,m4a}`, nạp ở `loadClicks`, cache cùng `piano-samples`; chưa tải thì dùng `synthTick`. Máy đánh nhịp chạy bằng `startMetronome(bpm, beats, onBeat)` — hẹn trước trên đồng hồ AudioContext (vòng look-ahead 25 ms), không dùng `setInterval` phát trực tiếp nên không lệch nhịp. Mọi hiệu ứng tắt khi `prefers-reduced-motion`.
